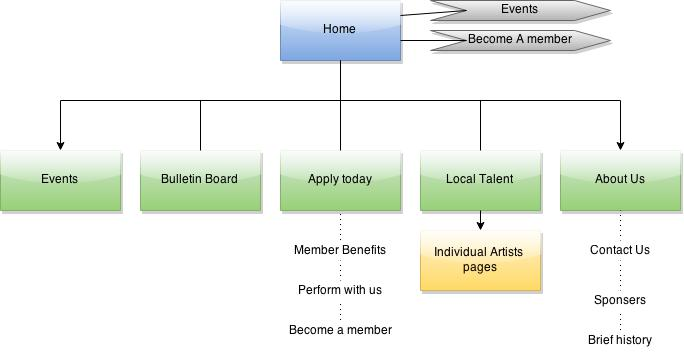
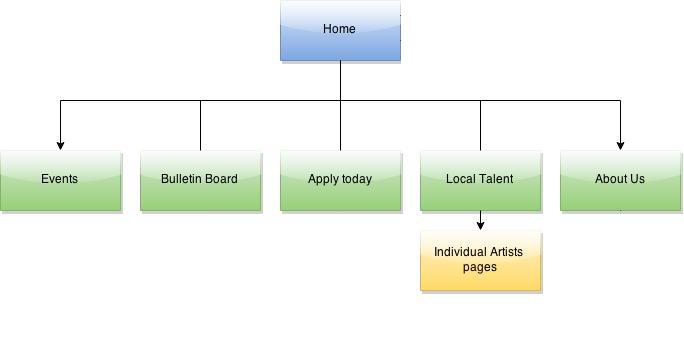
updated links on all pages

diff --git a/volunteer.html b/volunteer.html
@@ -2,13 +2,12 @@
 <html>
 <head>
 <meta charset="utf-8">
-<title>Untitled Document</title>
+<title>TCMC - Volunteer</title>
 <link href="stylesheet.css" rel="stylesheet" type="text/css">
 </head>
 
 <body>
-
-<div id="mainHeader">
+	<div id="mainHeader">
 <img src="Images/logotcmc.png" alt="TCMC banner"> 
     
 <div id="navleft">
@@ -22,7 +21,7 @@
 <ul>
     <li><a href="talent.html">Local Talent</a></li>
     <li><a href="apply.html">Apply</a></li>
-     <ul>
+         <ul>
             <li><a href="memberSignup.html">Become A member</a></li>
             <li><a href="volunteer.html">Volunteer for TCMC</a></li>
             <li><a href="performSignup.html">Perform with us</a></li>
@@ -32,11 +31,11 @@
 </div>    
 </div>
     
-    <div id="content"><h1>Events</h1>
-      <p>&nbsp;</p>
-      <p><img src="Images/HarboursideDuoBanner.jpg"><br><br><img src="Images/AvivaBanner.jpg"><br><br><img src="Images/TownsvilleConcertBandBanner.jpg"></p>
+    <div id="content"><h1>Become A volunteer for TCMC</h1>
+
     </div>
     
+
 <div id="footer">
 <ul>
     <li><a href="index.html">Home</a></li>

diff --git a/memberSignup.html b/memberSignup.html
@@ -2,13 +2,12 @@
 <html>
 <head>
 <meta charset="utf-8">
-<title>Untitled Document</title>
+<title>TCMC - Member Signup</title>
 <link href="stylesheet.css" rel="stylesheet" type="text/css">
 </head>
 
 <body>
-
-<div id="mainHeader">
+	<div id="mainHeader">
 <img src="Images/logotcmc.png" alt="TCMC banner"> 
     
 <div id="navleft">
@@ -22,7 +21,7 @@
 <ul>
     <li><a href="talent.html">Local Talent</a></li>
     <li><a href="apply.html">Apply</a></li>
-     <ul>
+        <ul>
             <li><a href="memberSignup.html">Become A member</a></li>
             <li><a href="volunteer.html">Volunteer for TCMC</a></li>
             <li><a href="performSignup.html">Perform with us</a></li>
@@ -32,11 +31,11 @@
 </div>    
 </div>
     
-    <div id="content"><h1>Events</h1>
-      <p>&nbsp;</p>
-      <p><img src="Images/HarboursideDuoBanner.jpg"><br><br><img src="Images/AvivaBanner.jpg"><br><br><img src="Images/TownsvilleConcertBandBanner.jpg"></p>
+    <div id="content"><h1>Become a Member!</h1>
+
     </div>
     
+
 <div id="footer">
 <ul>
     <li><a href="index.html">Home</a></li>

diff --git a/performSignup.html b/performSignup.html
@@ -2,13 +2,12 @@
 <html>
 <head>
 <meta charset="utf-8">
-<title>Untitled Document</title>
+<title>TCMC - Performers</title>
 <link href="stylesheet.css" rel="stylesheet" type="text/css">
 </head>
 
 <body>
-
-<div id="mainHeader">
+	<div id="mainHeader">
 <img src="Images/logotcmc.png" alt="TCMC banner"> 
     
 <div id="navleft">
@@ -22,7 +21,7 @@
 <ul>
     <li><a href="talent.html">Local Talent</a></li>
     <li><a href="apply.html">Apply</a></li>
-     <ul>
+         <ul>
             <li><a href="memberSignup.html">Become A member</a></li>
             <li><a href="volunteer.html">Volunteer for TCMC</a></li>
             <li><a href="performSignup.html">Perform with us</a></li>
@@ -32,11 +31,11 @@
 </div>    
 </div>
     
-    <div id="content"><h1>Events</h1>
-      <p>&nbsp;</p>
-      <p><img src="Images/HarboursideDuoBanner.jpg"><br><br><img src="Images/AvivaBanner.jpg"><br><br><img src="Images/TownsvilleConcertBandBanner.jpg"></p>
+    <div id="content"><h1>Perform with Us</h1>
+
     </div>
     
+
 <div id="footer">
 <ul>
     <li><a href="index.html">Home</a></li>

diff --git a/stylesheet.css b/stylesheet.css
@@ -110,10 +110,6 @@ h1{
 
 /* css coding for all basic pages */
 
-#wrapper {
-	
-}
-
 #navleft {
     position: relative;
     top: -155px;
@@ -123,30 +119,28 @@ h1{
 #navleft li {
     display: inline-block;
     padding: 25px;
-}
-
-#navleft li a {
     font-family: "Courier New", Courier, monospace;
     font-size: 14pt;
-    
 }
+			
 
 #navright {
     position: relative;
-    top: -240px;
-    left: 710px;
+    top: -242px;
+    left: 700px;
 }
 
 #navright li {
     display: inline-block;
     padding: 25px;
-
-}
-
-#navright li a {
     font-family: "Courier New", Courier, monospace;
     font-size: 14pt;
 }
+
+#navright ul li ul {
+    display: block;
+}
+
 
 #content {
     position: absolute;

diff --git a/about.html b/about.html
@@ -21,6 +21,11 @@
 <ul>
     <li><a href="talent.html">Local Talent</a></li>
     <li><a href="apply.html">Apply</a></li>
+         <ul>
+            <li><a href="memberSignup.html">Become A member</a></li>
+            <li><a href="volunteer.html">Volunteer for TCMC</a></li>
+            <li><a href="performSignup.html">Perform with us</a></li>
+        </ul>
     <li><a href="about.html">About Us</a></li>
 </ul> 
 </div>    

diff --git a/index.html b/index.html
@@ -23,6 +23,11 @@
 <ul>
     <li><a href="talent.html">Local Talent</a></li>
     <li><a href="apply.html">Apply</a></li>
+         <ul>
+            <li><a href="memberSignup.html">Become A member</a></li>
+            <li><a href="volunteer.html">Volunteer for TCMC</a></li>
+            <li><a href="performSignup.html">Perform with us</a></li>
+        </ul>
     <li><a href="about.html">About Us</a></li>
 </ul> 
 </div>    

diff --git a/talent.html b/talent.html
@@ -22,6 +22,11 @@
 <ul>
     <li><a href="talent.html">Local Talent</a></li>
     <li><a href="apply.html">Apply</a></li>
+         <ul>
+            <li><a href="memberSignup.html">Become A member</a></li>
+            <li><a href="volunteer.html">Volunteer for TCMC</a></li>
+            <li><a href="performSignup.html">Perform with us</a></li>
+        </ul>
     <li><a href="about.html">About Us</a></li>
 </ul> 
 </div>    

diff --git a/apply.html b/apply.html
@@ -21,6 +21,11 @@
 <ul>
     <li><a href="talent.html">Local Talent</a></li>
     <li><a href="apply.html">Apply</a></li>
+        <ul>
+            <li><a href="memberSignup.html">Become A member</a></li>
+            <li><a href="volunteer.html">Volunteer for TCMC</a></li>
+            <li><a href="performSignup.html">Perform with us</a></li>
+        </ul>
     <li><a href="about.html">About Us</a></li>
 </ul> 
 </div>    

diff --git a/artist.html b/artist.html
@@ -22,6 +22,11 @@
 <ul>
     <li><a href="talent.html">Local Talent</a></li>
     <li><a href="apply.html">Apply</a></li>
+     <ul>
+            <li><a href="memberSignup.html">Become A member</a></li>
+            <li><a href="volunteer.html">Volunteer for TCMC</a></li>
+            <li><a href="performSignup.html">Perform with us</a></li>
+        </ul>
     <li><a href="about.html">About Us</a></li>
 </ul> 
 </div>    

diff --git a/bulletin.html b/bulletin.html
@@ -22,6 +22,11 @@
 <ul>
     <li><a href="talent.html">Local Talent</a></li>
     <li><a href="apply.html">Apply</a></li>
+     <ul>
+            <li><a href="memberSignup.html">Become A member</a></li>
+            <li><a href="volunteer.html">Volunteer for TCMC</a></li>
+            <li><a href="performSignup.html">Perform with us</a></li>
+        </ul>
     <li><a href="about.html">About Us</a></li>
 </ul> 
 </div>    
